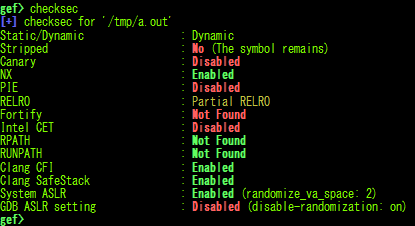
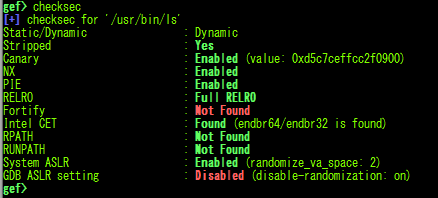
fix checksec

Changed region(s): [[0.4337, 0.1212, 0.9831, 0.9394], [0.0, 0.0, 0.4048, 1.0]]

diff --git a/gef.py b/gef.py
@@ -2053,11 +2053,11 @@ def checksec(filename):
 
     results = collections.OrderedDict()
     # Static
-    results["Static"] = is_static()
+    results["Static"] = is_static(filename)
     # Stripped
-    results["Stripped"] = is_stripped()
+    results["Stripped"] = is_stripped(filename)
     # Canary
-    if not is_stripped():
+    if not is_stripped(filename):
         results["Canary"] = __check_security_property("-rs", filename, r"__stack_chk_fail") is True
         if not results["Canary"]:
             results["Canary"] = __check_security_property("-rs", filename, r"__stack_chk_guard") is True # for non-x86
@@ -2091,16 +2091,16 @@ def checksec(filename):
     results["Partial RELRO"] = __check_security_property("-l", filename, r"GNU_RELRO") is True
     results["Full RELRO"] = results["Partial RELRO"] and __check_security_property("-d", filename, r"BIND_NOW") is True
     # Fortify
-    if is_stripped():
+    if is_stripped(filename):
         results["Fortify"] = None # it means unknown
-    elif is_static():
+    elif is_static(filename):
         results["Fortify"] = __check_security_property("-rs", filename, r"__mem(cpy|move)_chk") is True
     else:
         results["Fortify"] = __check_security_property("-rs", filename, r"_chk@GLIBC") is True
     # CET
     if not is_x86():
         results["Intel CET"] = False
-    elif not is_stripped() and not is_static():
+    elif not is_stripped(filename) and not is_static(filename):
         results["Intel CET"] = __check_security_property("-S", filename, r"\.plt\.sec") is True
     else: # static or stripped
         objdump = which("objdump")
@@ -11231,6 +11231,9 @@ class DwarfExceptionHandlerInfoCommand(GenericCommand):
             argv = argv[:idx] + argv[idx+2:]
         else:
             filename = get_filepath()
+            if filename is None:
+                err("No executable/library specified")
+                return
         if not os.path.exists(filename):
             err("{} is not found".format(filename))
             return
@@ -13848,9 +13851,9 @@ class ChecksecCommand(GenericCommand):
 
         # Stripped
         if sec["Stripped"]:
-            gef_print("{:<30s}: {:s}".format("Stripped", Color.greenify(Color.boldify("Yes"))))
+            gef_print("{:<30s}: {:s}".format("Stripped", Color.colorify("Yes", "green bold")))
         else:
-            gef_print("{:<30s}: {:s}".format("Stripped", Color.redify(Color.boldify("No")) + " (The symbol remains)"))
+            gef_print("{:<30s}: {:s}".format("Stripped", Color.colorify("No", "red bold") + " (The symbol remains)"))
 
         # Canary
         msg = get_colored_msg(sec["Canary"])
@@ -13870,32 +13873,35 @@ class ChecksecCommand(GenericCommand):
 
         # RELRO
         if sec["Full RELRO"]:
-            gef_print("{:<30s}: {:s}".format("RELRO", Color.greenify("Full RELRO")))
+            gef_print("{:<30s}: {:s}".format("RELRO", Color.colorify("Full RELRO", "green bold")))
         elif sec["Partial RELRO"]:
-            gef_print("{:<30s}: {:s}".format("RELRO", Color.yellowify("Partial RELRO")))
+            gef_print("{:<30s}: {:s}".format("RELRO", Color.colorify("Partial RELRO", "yellow bold")))
         else:
-            gef_print("{:<30s}: {:s}".format("RELRO", Color.redify(Color.boldify("No RELRO"))))
+            gef_print("{:<30s}: {:s}".format("RELRO", Color.colorify("No RELRO", "red bold")))
 
         # Fortify
         if sec["Fortify"]:
-            gef_print("{:<30s}: {:s}".format("Fortify", Color.greenify("Found")))
+            gef_print("{:<30s}: {:s}".format("Fortify", Color.colorify("Found", "green bold")))
         else:
-            gef_print("{:<30s}: {:s}".format("Fortify", Color.redify(Color.boldify("Not Found"))))
+            gef_print("{:<30s}: {:s}".format("Fortify", Color.colorify("Not Found", "red bold")))
 
         # CET
-        gef_print("{:<30s}: {:s}".format("Intel CET", get_colored_msg(sec["Intel CET"])))
+        if sec["Intel CET"]:
+            gef_print("{:<30s}: {:s}".format("Intel CET", Color.colorify("Found", "green bold") + " (endbr64/endbr32 is found)"))
+        else:
+            gef_print("{:<30s}: {:s}".format("Intel CET", Color.colorify("Not Found", "red bold") + " (endbr64/endbr32 is not found)"))
 
         # RPATH
         if not sec["RPATH"]:
-            gef_print("{:<30s}: {:s}".format("RPATH", Color.greenify(Color.boldify("Not Found"))))
+            gef_print("{:<30s}: {:s}".format("RPATH", Color.colorify("Not Found", "green bold")))
         else:
-            gef_print("{:<30s}: {:s}".format("RPATH", Color.redify(Color.boldify("Found"))))
+            gef_print("{:<30s}: {:s}".format("RPATH", Color.colorify("Found", "red bold")))
 
         # RUNPATH
         if not sec["RUNPATH"]:
-            gef_print("{:<30s}: {:s}".format("RUNPATH", Color.greenify(Color.boldify("Not Found"))))
+            gef_print("{:<30s}: {:s}".format("RUNPATH", Color.colorify("Not Found", "green bold")))
         else:
-            gef_print("{:<30s}: {:s}".format("RUNPATH", Color.redify(Color.boldify("Found"))))
+            gef_print("{:<30s}: {:s}".format("RUNPATH", Color.colorify("Found", "red bold")))
 
         # Clang CFI
         if sec["Clang CFI"]:
@@ -13910,15 +13916,15 @@ class ChecksecCommand(GenericCommand):
             try:
                 system_aslr = int(open("/proc/sys/kernel/randomize_va_space").read())
                 if system_aslr == 0:
-                    gef_print("{:<30s}: {:s} (randomize_va_space: 0)".format("System ASLR", Color.redify(Color.boldify("Disabled"))))
+                    gef_print("{:<30s}: {:s} (randomize_va_space: 0)".format("System ASLR", Color.colorify("Disabled", "red bold")))
                 elif system_aslr == 1:
-                    gef_print("{:<30s}: {:s} (randomize_va_space: 1)".format("System ASLR", Color.greenify(Color.boldify("Enabled"))))
+                    gef_print("{:<30s}: {:s} (randomize_va_space: 1)".format("System ASLR", Color.colorify("Partially Enabled", "yellow bold")))
                 elif system_aslr == 2:
-                    gef_print("{:<30s}: {:s} (randomize_va_space: 2)".format("System ASLR", Color.greenify(Color.boldify("Enabled"))))
+                    gef_print("{:<30s}: {:s} (randomize_va_space: 2)".format("System ASLR", Color.colorify("Enabled", "green bold")))
             except:
-                gef_print("{:<30s}: {:s} (randomize_va_space: error)".format("System-ASLR", Color.grayify(Color.boldify("Unknown"))))
+                gef_print("{:<30s}: {:s} (randomize_va_space: error)".format("System-ASLR", Color.colorify("Unknown", "gray bold")))
         else:
-            gef_print("{:<30s}: {:s} (attached remote process)".format("System-ASLR", Color.grayify(Color.boldify("Unknown"))))
+            gef_print("{:<30s}: {:s} (attached remote process)".format("System-ASLR", Color.colorify("Unknown", "gray bold")))
 
         # attached or not
         ret = gdb.execute("info files", to_string=True)
@@ -13926,15 +13932,15 @@ class ChecksecCommand(GenericCommand):
             # gdb ASLR
             ret = gdb.execute("show disable-randomization", to_string=True)
             if "virtual address space is on." in ret:
-                gef_print("{:<30s}: {:s} (disable-randomization: on)".format("GDB ASLR setting", Color.redify(Color.boldify("Disabled"))))
+                gef_print("{:<30s}: {:s} (disable-randomization: on)".format("GDB ASLR setting", Color.colorify("Disabled", "red bold")))
             elif "virtual address space is off." in ret:
-                gef_print("{:<30s}: {:s} (disable-randomization: off)".format("GDB ASLR setting", Color.greenify(Color.boldify("Enabled"))))
+                gef_print("{:<30s}: {:s} (disable-randomization: off)".format("GDB ASLR setting", Color.colorify("Enabled", "green bold")))
             else:
-                gef_print("{:<30s}: {:s}".format("GDB ASLR setting", Color.grayify(Color.boldify("Unknown"))))
+                gef_print("{:<30s}: {:s}".format("GDB ASLR setting", Color.colorify("Unknown", "gray bold")))
         elif "Using the running image of attached process" in ret:
-            gef_print("{:<30s}: {:s} (attached process)".format("GDB ASLR setting", Color.grayify(Color.boldify("Ignored"))))
+            gef_print("{:<30s}: {:s} (attached process)".format("GDB ASLR setting", Color.colorify("Ignored", "gray bold")))
         elif "Debugging a target over a serial line." in ret:
-            gef_print("{:<30s}: {:s} (attached process)".format("GDB ASLR setting", Color.grayify(Color.boldify("Ignored"))))
+            gef_print("{:<30s}: {:s} (attached process)".format("GDB ASLR setting", Color.colorify("Ignored", "gray bold")))
         return
 
     def print_security_properties_qemu_system(self):

diff --git a/README.md b/README.md
@@ -176,7 +176,7 @@ All of these features are experimental. Tested on Ubuntu 18.04 / 20.04 / 22.04 /
     * It prints whether Static or Dynamic.
     * It prints whether Stripped or not.
     * It detects canary against static stripped binary.
-    * It prints whether Intel CET is enabled or not.
+    * It prints whether Intel CET instructions (endbr64/endbr32) is found or not.
     * It prints whether RPATH/RUNPATH is set or not.
     * It prints if Clang CFI/SafeStack is used or not.
     * It prints whether System-ASLR is enabled or not.
